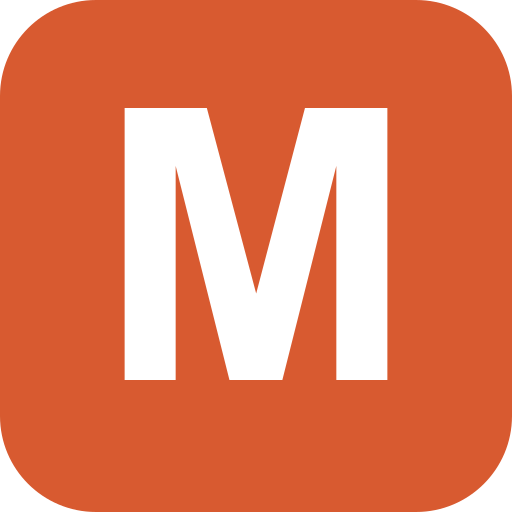
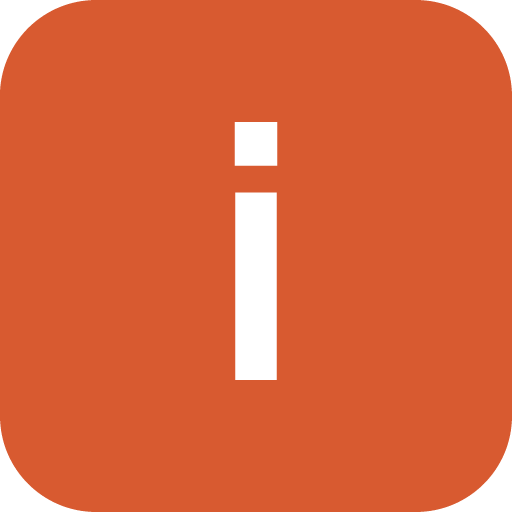
Rebrand from MealDeals to ih8fullprice
Renamed the site everywhere: meta tags, manifest, README, package
metadata, legal page copy, footer/logo, and the branded assets
(favicon, app icons, OG share image) — new ih8fullprice.com domain
in place of the old mealdeals.vercel.app references. Contact email
left as-is for now.

Changed region(s): [[0.2188, 0.1875, 0.7812, 0.75]]

diff --git a/src/App.jsx b/src/App.jsx
@@ -69,7 +69,7 @@ const buildTree = (comments) => {
 const MEAL_TIMES = ["All", "Breakfast", "Lunch", "Dinner"];
 const DAYS_SHORT = ["Su","Mo","Tu","We","Th","Fr","Sa"];
 
-export default function MealDeals() {
+export default function App() {
   const isMobile = useIsMobile();
   const [screen, setScreen] = useState("home");
   const [selectedDeal, setSelectedDeal] = useState(null);
@@ -950,7 +950,7 @@ export default function MealDeals() {
 
       {/* Nav */}
       <div style={styles.nav}>
-        <div style={styles.logo} onClick={() => setScreen("home")}>MealDeals</div>
+        <div style={styles.logo} onClick={() => setScreen("home")}>ih8fullprice</div>
         <div style={styles.navRight}>
           <button style={screen === "map" ? styles.navBtnActive : styles.navBtn} onClick={() => setScreen("map")}>Map</button>
           {user && <button style={screen === "saved" ? styles.navBtnActive : styles.navBtn} onClick={() => setScreen("saved")}>{isMobile ? "★" : "★ Saved"}</button>}
@@ -1537,7 +1537,7 @@ export default function MealDeals() {
           <div style={{ fontSize: 24, fontWeight: 700, marginTop: 12, marginBottom: 2 }}>Privacy Policy</div>
           <div style={{ fontSize: 12, color: "var(--text-faint)", marginBottom: 20 }}>Last updated: May 25, 2026</div>
           <div style={styles.policyText}>
-            This policy explains what data MealDeals collects and what we do with it. Plain English, no tricks.
+            This policy explains what data ih8fullprice collects and what we do with it. Plain English, no tricks.
           </div>
 
           <div style={styles.policyH2}>1. What we collect</div>
@@ -1587,7 +1587,7 @@ export default function MealDeals() {
 
           <div style={styles.policyH2}>7. Children</div>
           <div style={styles.policyText}>
-            MealDeals isn't intended for users under 13. If you're a parent and your child has signed up, email us and we'll delete the account.
+            ih8fullprice isn't intended for users under 13. If you're a parent and your child has signed up, email us and we'll delete the account.
           </div>
 
           <div style={styles.policyH2}>8. Changes</div>
@@ -1600,7 +1600,7 @@ export default function MealDeals() {
             <a href="mailto:mealdeals12@gmail.com" style={{ color: "var(--accent)" }}>mealdeals12@gmail.com</a>
           </div>
           <div style={styles.policyText}>
-            MealDeals is operated by Alec Simin in the United States.
+            ih8fullprice is operated by Alec Simin in the United States.
           </div>
         </div>
       )}
@@ -1612,10 +1612,10 @@ export default function MealDeals() {
           <div style={{ fontSize: 24, fontWeight: 700, marginTop: 12, marginBottom: 2 }}>Terms of Service</div>
           <div style={{ fontSize: 12, color: "var(--text-faint)", marginBottom: 20 }}>Last updated: May 25, 2026</div>
           <div style={styles.policyText}>
-            Welcome to MealDeals. By using the site you agree to these terms. If you don't agree, please don't use it.
+            Welcome to ih8fullprice. By using the site you agree to these terms. If you don't agree, please don't use it.
           </div>
 
-          <div style={styles.policyH2}>1. Who can use MealDeals</div>
+          <div style={styles.policyH2}>1. Who can use ih8fullprice</div>
           <div style={styles.policyText}>
             You need to be at least 13 to create an account (or 16 if you're in the EU/UK).
           </div>
@@ -1627,7 +1627,7 @@ export default function MealDeals() {
 
           <div style={styles.policyH2}>3. Your content</div>
           <div style={styles.policyText}>
-            Deals, comments, photos, and anything else you post belong to you. By posting, you give MealDeals a non-exclusive, royalty-free license to store, display, and share that content so the service can function. You can delete your own content any time.
+            Deals, comments, photos, and anything else you post belong to you. By posting, you give ih8fullprice a non-exclusive, royalty-free license to store, display, and share that content so the service can function. You can delete your own content any time.
           </div>
 
           <div style={styles.policyH2}>4. What's not OK to post</div>
@@ -1646,17 +1646,17 @@ export default function MealDeals() {
 
           <div style={styles.policyH2}>6. Deal accuracy</div>
           <div style={styles.policyText}>
-            Deals are posted by users. MealDeals doesn't verify prices, hours, or availability, and isn't affiliated with the restaurants listed. Confirm details with the merchant before you go.
+            Deals are posted by users. ih8fullprice doesn't verify prices, hours, or availability, and isn't affiliated with the restaurants listed. Confirm details with the merchant before you go.
           </div>
 
           <div style={styles.policyH2}>7. No warranty</div>
           <div style={styles.policyText}>
-            MealDeals is provided as-is. We don't guarantee that it'll be available, accurate, or bug-free.
+            ih8fullprice is provided as-is. We don't guarantee that it'll be available, accurate, or bug-free.
           </div>
 
           <div style={styles.policyH2}>8. Limitation of liability</div>
           <div style={styles.policyText}>
-            To the extent allowed by law, the operator of MealDeals isn't liable for any indirect, incidental, or consequential damages arising from your use of the site.
+            To the extent allowed by law, the operator of ih8fullprice isn't liable for any indirect, incidental, or consequential damages arising from your use of the site.
           </div>
 
           <div style={styles.policyH2}>9. Termination</div>
@@ -1674,7 +1674,7 @@ export default function MealDeals() {
             <a href="mailto:mealdeals12@gmail.com" style={{ color: "var(--accent)" }}>mealdeals12@gmail.com</a>
           </div>
           <div style={styles.policyText}>
-            MealDeals is operated by Alec Simin in the United States.
+            ih8fullprice is operated by Alec Simin in the United States.
           </div>
         </div>
       )}

diff --git a/index.html b/index.html
@@ -8,7 +8,7 @@
     <link rel="apple-touch-icon" sizes="180x180" href="/apple-touch-icon.png" />
     <link rel="manifest" href="/manifest.json" />
 
-    <title>MealDeals — Find food deals near you</title>
+    <title>ih8fullprice — Find food deals near you</title>
     <meta name="description" content="A community-driven app for sharing and finding food deals at local restaurants. Browse by breakfast, lunch, dinner, or day of the week." />
     <meta name="theme-color" content="#d85a30" />
 
@@ -16,27 +16,27 @@
     <meta name="mobile-web-app-capable" content="yes" />
     <meta name="apple-mobile-web-app-capable" content="yes" />
     <meta name="apple-mobile-web-app-status-bar-style" content="default" />
-    <meta name="apple-mobile-web-app-title" content="MealDeals" />
+    <meta name="apple-mobile-web-app-title" content="ih8fullprice" />
 
     <!-- Open Graph (Discord, Facebook, LinkedIn, iMessage) -->
     <meta property="og:type" content="website" />
-    <meta property="og:site_name" content="MealDeals" />
-    <meta property="og:title" content="MealDeals — Find food deals near you" />
+    <meta property="og:site_name" content="ih8fullprice" />
+    <meta property="og:title" content="ih8fullprice — Find food deals near you" />
     <meta property="og:description" content="A community-driven app for sharing and finding food deals at local restaurants." />
-    <meta property="og:url" content="https://mealdeals.vercel.app" />
-    <meta property="og:image" content="https://mealdeals.vercel.app/og-image.png" />
+    <meta property="og:url" content="https://ih8fullprice.com" />
+    <meta property="og:image" content="https://ih8fullprice.com/og-image.png" />
     <meta property="og:image:width" content="1200" />
     <meta property="og:image:height" content="630" />
-    <meta property="og:image:alt" content="MealDeals — Find food deals near you" />
+    <meta property="og:image:alt" content="ih8fullprice — Find food deals near you" />
 
     <!-- Twitter Card -->
     <meta name="twitter:card" content="summary_large_image" />
-    <meta name="twitter:title" content="MealDeals — Find food deals near you" />
+    <meta name="twitter:title" content="ih8fullprice — Find food deals near you" />
     <meta name="twitter:description" content="A community-driven app for sharing and finding food deals at local restaurants." />
-    <meta name="twitter:image" content="https://mealdeals.vercel.app/og-image.png" />
+    <meta name="twitter:image" content="https://ih8fullprice.com/og-image.png" />
 
     <!-- Canonical URL -->
-    <link rel="canonical" href="https://mealdeals.vercel.app" />
+    <link rel="canonical" href="https://ih8fullprice.com" />
   </head>
   <body>
     <div id="root"></div>

diff --git a/README.md b/README.md
@@ -1,8 +1,8 @@
-# MealDeals
+# ih8fullprice
 
 A community-driven app for finding and sharing food deals in your area.
 
-**Live:** [mealdeals.vercel.app](https://mealdeals.vercel.app)
+**Live:** [ih8fullprice.com](https://ih8fullprice.com)
 
 ---
 
